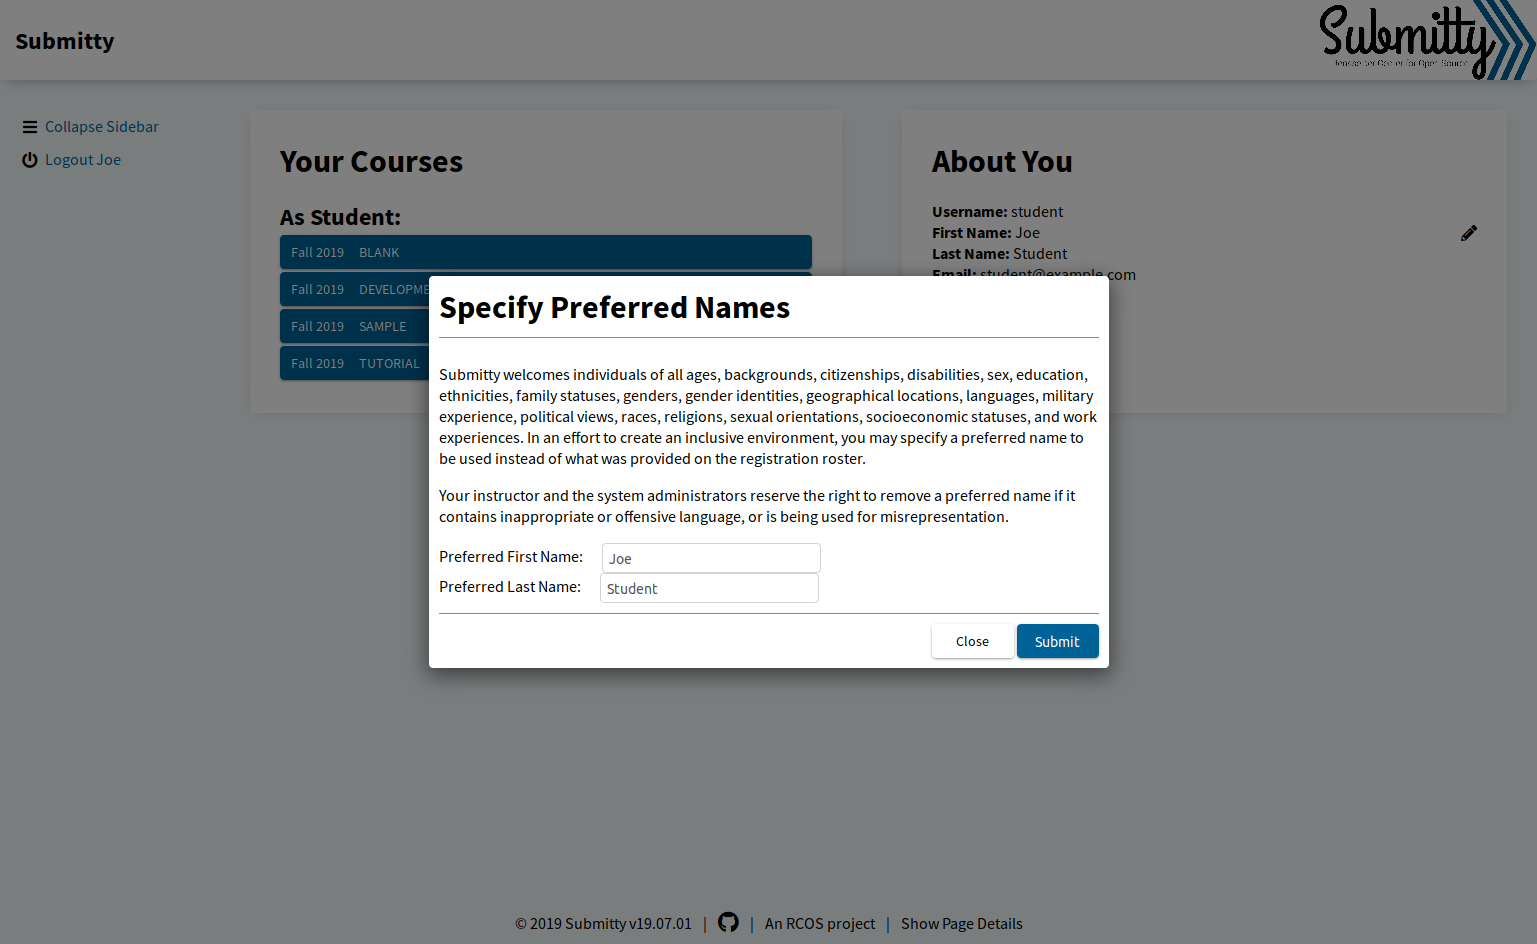
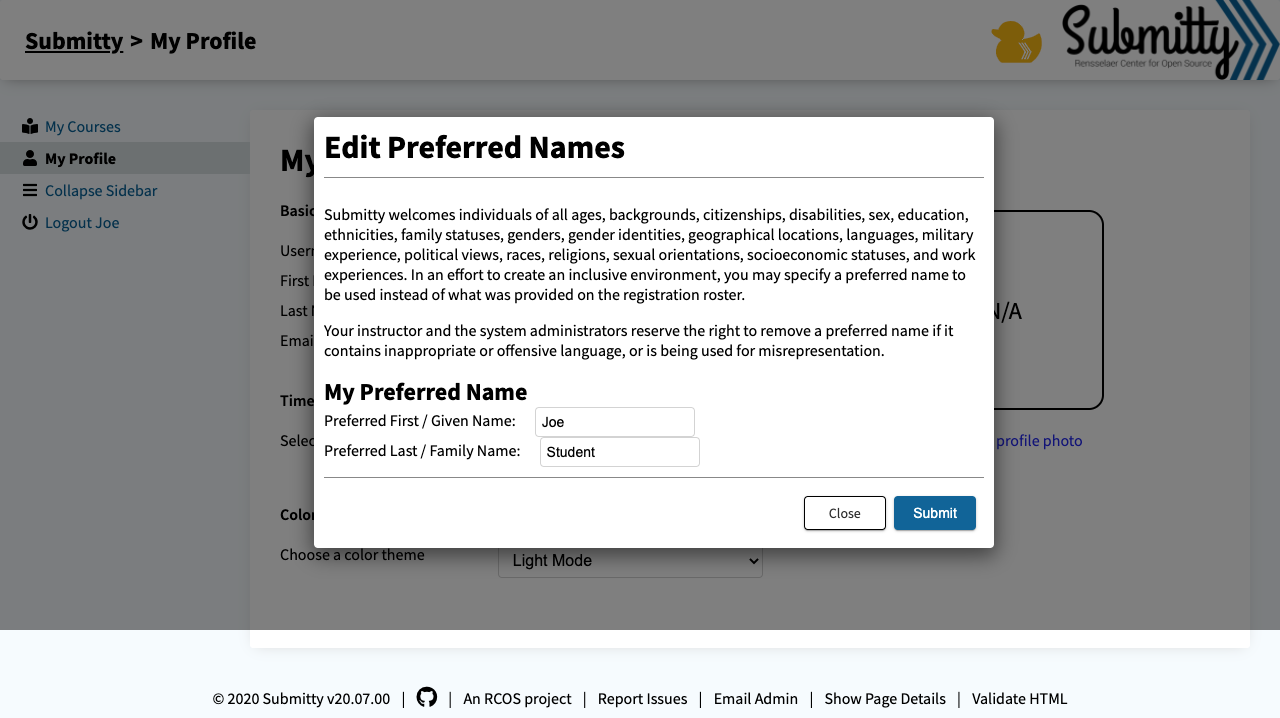
Documentation for my-profile PR (# 5671)

diff --git a/_docs/student/account/password.md b/_docs/student/account/password.md
@@ -4,14 +4,14 @@ title: Password
 ---
 
 If your school's installation of Submitty is configured with database
-passwords, you'll see the "Change Password" text and a pencil icon at
-the bottom of the "About You" panel, and you can change this password
-through the web interface.  Click this pencil and enter a new
-password.
+passwords, you'll see "Change Password" text and a pencil icon under the "Basic
+Information" on "My Profile" page, you can change this password
+through the web interface by clicking on this pencil icon. Enter your new
+password and again type your password to confirm and press "Submit".
 
-![](/images/HomepagePassword.png)
+![](/images/student/ChangePasswordField.png)
 
-![](/images/ChangePasswordForm.png)
+![](/images/student/ChangePasswordForm.png)
 
 If you don't see see this option on your account, it is likely this
 password is served through a shared central password system used by

diff --git a/_docs/student/account/theme.md b/_docs/student/account/theme.md
@@ -3,11 +3,11 @@ category: Student -- Acccount
 title: Theme
 ---
 
-In addition to the default light mode, Submitty has a dark mode.
-To enable the dark mode click the "Enable Dark Mode" checkbox
-in the "About You" section.
+In addition to the default light mode, Submitty supports a number of other themes like 'Dark Mode', 'Black Mode'.
+You can choose any of these theme from the "Change theme" drop-down given on the "My profile" page
 
-![](/images/change_theme.png)
+![](/images/student/select_theme_field.png)
+![](/images/student/theme_options.png)
 
 If your device uses an [AMOLED](https://en.wikipedia.org/wiki/AMOLED) screen, you may want to enable the black mode as well. This will save battery life. Once you enable dark mode, the option to enable black mode will appear. Click the "Enable Black Mode" checkbox to switch.
 

diff --git a/_docs/student/account/profile_photo.md b/_docs/student/account/profile_photo.md
@@ -1,0 +1,16 @@
+---
+category: Student -- Account
+title: Profile photo
+---
+
+You may upload a passport-style photograph of yourself for display to course teaching staff.
+This is helpful for learning the names of students in large courses and improving your educational experience.
+
+![](/images/student/UploadProfilePhotoForm.png)
+
+Note that this feature is NOT for avatars, memes, etc. Your instructors and the system
+administrators reserve the right to remove profile photos that do not meet educational purposes.
+You will see the following message when your profile photo is found inappropriate and its being flagged by one of 
+your instructors.
+
+![](/images/student/flagged_photo.png)

diff --git a/_docs/student/account/my_profile.md b/_docs/student/account/my_profile.md
@@ -1,0 +1,11 @@
+---
+category: Student -- Account
+title: My Profile
+---
+
+This page shows all your profile specific information. On this page, you can edit your [preferred names](/student/account/preferred_name),
+your [time-zone](/student/account/local_timezone), your [password](/student/account/password) (if its enabled),
+[theme](/student/account/theme) to use submitty, and your [profile photo](/student/account/profile_photo).
+
+
+![](/images/student/user_profile.png)  

diff --git a/_docs/student/account/preferred_name.md b/_docs/student/account/preferred_name.md
@@ -4,8 +4,8 @@ title: Preferred Name
 ---
 
 If you would like to use a different first and/or last name than what
-is listed on the registration roster, click the pencil next to your
-name in the "About You" panel on the right of the screen.  Enter your
+is listed on the registration roster, click the pencil saying "Edit Preferred Names"
+under the Basic Information section on "My Profile" page. Enter your
 information and press "Submit".
 
 ![](/images/PreferredNameForm.png)

diff --git a/_docs/student/account/index.md b/_docs/student/account/index.md
@@ -33,12 +33,5 @@ or teaching staff for the course or system administrator for your
 school or department.
 
 
-You can also review the email address associated
-with your account and change your
-[preferred name](/student/account/preferred_name),
-[password](/student/account/password),
-[local timezone](/student/account/local_timezone), and
-[theme](/student/account/theme).
-
 
 

diff --git a/_docs/student/account/local_timezone.md b/_docs/student/account/local_timezone.md
@@ -16,5 +16,6 @@ based on the user's specified local timezone.
 Select the closest, most appropriate location from the
 [List of Available Timezones](https://www.w3schools.com/php/php_ref_timezones.asp).
 
-![](/images/student/specify_timezone.png)
+![](/images/student/specify_timezone_field.png)
+![](/images/student/timezone_dropdown.png)
 
